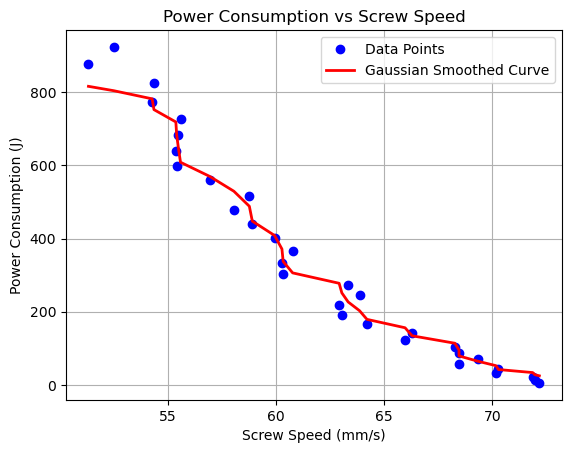
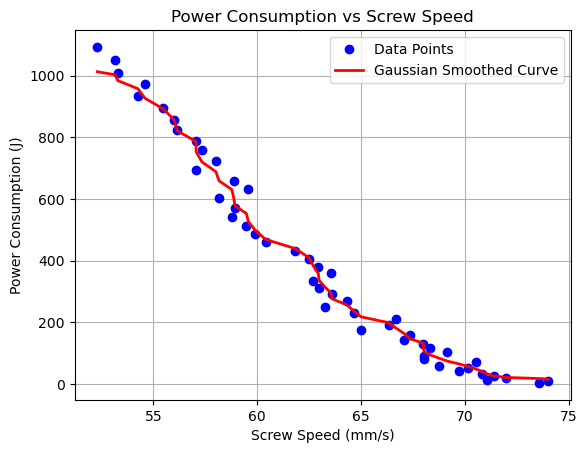
update readme and update data freq

diff --git a/scripts/theoretical.py b/scripts/theoretical.py
@@ -352,7 +352,7 @@ def collect_data(update_interval_ms, loop_time_multiplier, current_step_per_sec)
 
 
 def main():
-    powers, torques, rpms, _, power_consumptions = collect_data(10, 10, 10)
+    powers, torques, rpms, _, power_consumptions = collect_data(8, 10, 8)
     print("Power vs Torque")
     print(*zip(powers, torques), sep="\n")
     create_and_save_graph(torques, powers, "power_vs_torque.png", "Power vs Torque", "Torque (mNm)", "Power (W)")

diff --git a/README.md b/README.md
@@ -29,3 +29,11 @@ tarzında kullandım, percentage azaltırsın istersen
 grafiklerde jitter uygulanmış noktaları yumuşatmak için moving average, gaussian ve adını unuttğum 2 şey daha denedim
 bence en güzeli gaussian ama beğenmezsen data pointleri alıp matlabde istediğin gibi değiştirebilirsin
 
+### data
+eğer daha çok data toplamak istersen data pointleri kenara kaydedip kodu birkaç kez tekrar çalıştırabilirsin, jitterda rastgelelik olduğu için
+her seferinde ufak değişiklikler olacak datalarda, baya havalı şeyler yapabilirsin onlarla
+
+main() fonskiyonu içinde collect_data var, collect_data(1, 10, 1) falan yaparsan çalışma başına çok daha fazla data alabilirsin
+collect_data(10, 10, 10) yaparsan da daha az data topluyon haberin olsun istersen daha çok da arttırabilirsin
+
+Bİ DE bence lineer bir correlation olmasını gerektiğini bildiğin şeylere lineer regresyon oturtabilirsin tatlı görünür.
